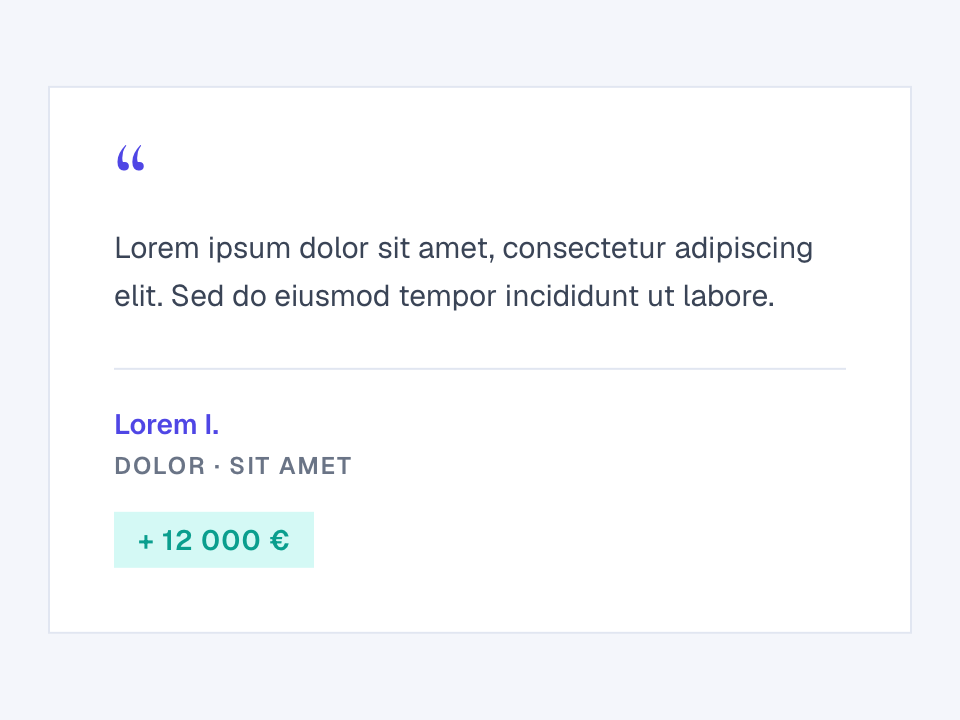
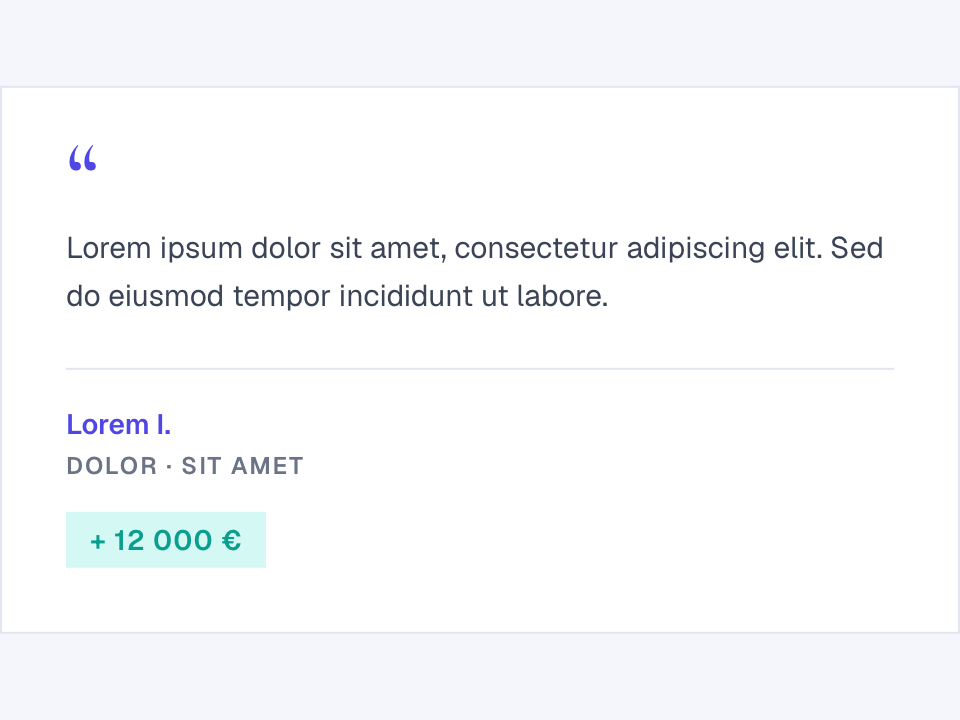
Section manager: thumbnails fill the panel's height, captures without margin, name centred on hover

diff --git a/src/app/(frontend)/apercu/[slug]/Apercu.tsx b/src/app/(frontend)/apercu/[slug]/Apercu.tsx
@@ -100,13 +100,16 @@ const STEPS = [
 ];
 
 /**
- * Width at which a component is rendered (CSS px) before it is fitted in its stage, when the
- * stage's inner width would make it too tall (scaled down further) or needlessly stretched.
- * Default: the stage's inner width, which keeps the cards largest (their image has a fixed height).
+ * Width at which a component is rendered (CSS px) before it is fitted in its stage (scaled down or
+ * up until it touches two facing edges). Default: the stage's width. A component that comes out
+ * taller than the stage is rendered wider here, so that it fills more of the stage once fitted.
  */
 const RENDER_WIDTH: Record<string, number> = {
   [PRICE_SINGLE_SLUG]: 760,
   [GALLERY_SLUG]: 800,
+  [PLAN_SLUG]: 640,
+  [TEXT_BOX_SLUG]: 600,
+  [FORM_SLUG]: 600,
 };
 
 /** Demo data for a card variant. */
@@ -214,14 +217,14 @@ function demo(slug: string): React.ReactNode {
 
 /**
  * The stage: a fixed box on the page background (standard or wide, same height) with the component
- * centred in it, rendered at its width then scaled down uniformly when it does not fit (never up).
+ * centred in it, rendered at its width then scaled uniformly to fit the stage (no padding).
  * `data-apercu` targets the capture; `data-ready` and `data-scale` are read by `pnpm previews:build`.
  */
 function Stage({slug, children}: {slug: string; children: React.ReactNode}) {
   const wide = WIDE_PREVIEWS.has(slug);
   const stageWidth = wide ? PREVIEW_STAGE.wideWidth : PREVIEW_STAGE.width;
-  const innerWidth = stageWidth - 2 * PREVIEW_STAGE.padding;
-  const innerHeight = PREVIEW_STAGE.height - 2 * PREVIEW_STAGE.padding;
+  const innerWidth = stageWidth;
+  const innerHeight = PREVIEW_STAGE.height;
   const width = RENDER_WIDTH[slug] ?? innerWidth;
   const content = useRef<HTMLElement>(null);
   const [scale, setScale] = useState(1);
@@ -230,7 +233,7 @@ function Stage({slug, children}: {slug: string; children: React.ReactNode}) {
   useLayoutEffect(() => {
     const el = content.current;
     if (!el) return;
-    const fit = () => setScale(Math.min(1, innerWidth / Math.max(el.offsetWidth, el.scrollWidth), innerHeight / Math.max(el.offsetHeight, el.scrollHeight)));
+    const fit = () => setScale(Math.min(innerWidth / Math.max(el.offsetWidth, el.scrollWidth), innerHeight / Math.max(el.offsetHeight, el.scrollHeight)));
     fit();
     const observer = new ResizeObserver(fit);
     observer.observe(el);
@@ -258,9 +261,10 @@ function Stage({slug, children}: {slug: string; children: React.ReactNode}) {
     };
   }, [innerHeight, innerWidth]);
 
+  // (the plan card's badge sits astride its top edge: it gets room, so that it is not cut)
   return (
     <VStack data-apercu data-ready={ready || undefined} data-scale={scale.toFixed(3)} style={{position: 'relative', width: stageWidth, height: PREVIEW_STAGE.height, overflow: 'hidden', background: 'var(--color-background-body)'}}>
-      <VStack ref={content} style={{position: 'absolute', insetInlineStart: '50%', insetBlockStart: '50%', width, transform: `translate(-50%, -50%) scale(${scale})`}}>
+      <VStack ref={content} style={{position: 'absolute', insetInlineStart: '50%', insetBlockStart: '50%', width, paddingBlockStart: slug === PLAN_SLUG ? 'var(--spacing-3)' : undefined, transform: `translate(-50%, -50%) scale(${scale})`}}>
         {children}
       </VStack>
     </VStack>

diff --git a/src/fields/sections/SectionManager.scss b/src/fields/sections/SectionManager.scss
@@ -354,10 +354,17 @@ $slide: 300ms;
 }
 
 // the block library: thumbnails in a line that scrolls sideways. A thumbnail is the block's image
-// alone, whole (contain), in a box of one height: standard (4:3) or wide (8:3, `--wide`)
+// alone, whole (contain), in a box as high as the panel: standard (4:3) or wide (8:3, `--wide`)
+.section-manager__content:has(> .block-library) {
+  display: flex;
+  flex-direction: column;
+}
+
 .block-library {
   display: flex;
+  flex: 1 1 0;
   gap: 12px;
+  min-height: 120px;
   margin: 0;
   padding: 0 0 8px;
   overflow-x: auto;
@@ -365,11 +372,12 @@ $slide: 300ms;
 }
 
 .block-library__item {
-  flex: 0 0 240px;
+  flex: 0 0 auto;
+  aspect-ratio: 4 / 3;
 }
 
 .block-library__item--wide {
-  flex-basis: 480px;
+  aspect-ratio: 8 / 3;
 }
 
 .block-library__block {
@@ -378,14 +386,13 @@ $slide: 300ms;
   display: block;
   overflow: hidden;
   width: 100%;
-  height: 180px;
+  height: 100%;
   border-radius: 4px;
   background: var(--theme-elevation-50) center / contain no-repeat;
   // the frame is a shadow drawn over the picture: the picture keeps the box's exact size
   box-shadow: inset 0 0 0 1px var(--theme-elevation-150);
   color: var(--theme-elevation-0);
   font: inherit;
-  text-align: left;
   cursor: grab;
 
   &:hover,
@@ -400,15 +407,22 @@ $slide: 300ms;
   }
 }
 
-// the name and the widths: a band over the bottom of the picture, on hover and on keyboard focus
+// the name and the widths: a label in the middle of the picture, on hover and on keyboard focus
 .block-library__caption {
   position: absolute;
-  inset: auto 0 0;
+  top: 50%;
+  left: 50%;
   display: flex;
   flex-direction: column;
-  padding: 6px 10px;
+  align-items: center;
+  box-sizing: border-box;
+  max-width: calc(100% - 16px);
+  padding: 8px 12px;
+  border-radius: 4px;
   background: color-mix(in srgb, var(--theme-elevation-1000) 88%, transparent);
+  text-align: center;
   opacity: 0;
+  transform: translate(-50%, -50%);
   transition: opacity 120ms ease;
   pointer-events: none;
 
@@ -419,6 +433,7 @@ $slide: 300ms;
 }
 
 .block-library__label {
+  max-width: 100%;
   overflow: hidden;
   font-size: 14px;
   font-weight: 600;

diff --git a/src/fields/sections/BlockLibrary.tsx b/src/fields/sections/BlockLibrary.tsx
@@ -2,9 +2,9 @@
 
 /**
  * BlockLibrary — the content blocks as a line of thumbnails that scrolls sideways: each one is the
- * image the host gave the block, shown whole (contain) in a box of fixed height, standard or wide
+ * image the host gave the block, shown whole (contain) in a box as high as the panel, standard or wide
  * (`wide`: the host declared a landscape image). The block's name and the column widths it accepts
- * show over the picture on hover and on keyboard focus, and are its accessible name. A thumbnail
+ * show in the middle of the picture on hover and on keyboard focus, and are its accessible name. A thumbnail
  * is dragged onto a column of the preview (`onDrag` tells the dialog which block is in the air) or
  * clicked (`onPick`). `fits`: blocks that do not fit are shown dimmed and cannot be picked.
  */
@@ -56,7 +56,7 @@ export function BlockLibrary({blocks, fits, onPick, onDrag}: Props) {
                 onDrag?.(b.slug);
               }}
               onDragEnd={() => onDrag?.(null)}>
-              {/* the name and the widths, over the picture on hover and focus (the aria-label speaks them) */}
+              {/* the name and the widths, in the middle of the picture on hover and focus (the aria-label speaks them) */}
               <span className="block-library__caption" aria-hidden="true">
                 <span className="block-library__label">{b.label}</span>
                 <span className="block-library__widths">{widths}</span>

diff --git a/src/fields/blocks/previews.ts b/src/fields/blocks/previews.ts
@@ -24,9 +24,10 @@ export const PREVIEW_SLUGS: string[] = [EMPTY_SLUG, SECTION_HEADING_SLUG, TEXT_B
 
 /**
  * Stage of a picker preview, in CSS px: every capture is a standard stage or a wide one, both the
- * same height, shot at `scale` (deviceScaleFactor). The component sits centred in it, whole.
+ * same height, shot at `scale` (deviceScaleFactor). The component sits centred in it, whole, as
+ * large as the stage allows (no padding).
  */
-export const PREVIEW_STAGE = {width: 480, wideWidth: 960, height: 360, padding: 24, scale: 2} as const;
+export const PREVIEW_STAGE = {width: 480, wideWidth: 960, height: 360, scale: 2} as const;
 
 /**
  * Blocks whose preview is landscape: a wide stage (twice the standard width), and a wide

diff --git a/docs/section-builder.md b/docs/section-builder.md
@@ -138,7 +138,7 @@ The block picker only offers blocks whose width range contains the column's (`fi
 
 Each block has a thumbnail in the picker (`imageURL`). They are screenshots of `/apercu/<slug>` (blue silo, light mode, lorem ipsum demo data) made by `pnpm previews:build` while `pnpm dev` is running (`PREVIEW_ONLY=slug1,slug2` to redo a few).
 
-Two formats only, same height (`PREVIEW_STAGE` in `src/fields/blocks/previews.ts`): a standard stage of 480 × 360 CSS px or a wide one of 960 × 360, captured at 2x (PNG 960 × 720 or 1920 × 720). The component is centred on the page background with a 24 px margin, rendered at the stage's inner width (or a per-slug `RENDER_WIDTH` in `Apercu.tsx`) and scaled down uniformly when it does not fit, never up; the script prints the scale of each. Keep demo contents short (three features, two FAQ items…) so that the scale stays near 1. `WIDE_PREVIEWS` (same file) lists the landscape blocks: it picks the stage, and `src/sections.config.ts` turns it into each block's `previewWide`, which gives it a wide thumbnail in the section manager. Payload's own blocks drawer shows the images whole in 4:3 cells (`custom.scss`).
+Two formats only, same height (`PREVIEW_STAGE` in `src/fields/blocks/previews.ts`): a standard stage of 480 × 360 CSS px or a wide one of 960 × 360, captured at 2x (PNG 960 × 720 or 1920 × 720). The component is centred on the page background with no margin, rendered at the stage's width (or a per-slug `RENDER_WIDTH` in `Apercu.tsx`) and scaled uniformly until it touches two facing edges of the stage; the script prints the scale of each. Keep demo contents short (three features, two FAQ items…) so that the scale stays near 1. `WIDE_PREVIEWS` (same file) lists the landscape blocks: it picks the stage, and `src/sections.config.ts` turns it into each block's `previewWide`, which gives it a wide thumbnail in the section manager. Payload's own blocks drawer shows the images whole in 4:3 cells (`custom.scss`).
 
 ## Title tags
 

diff --git a/docs/section-manager.md b/docs/section-manager.md
@@ -85,9 +85,9 @@ still publishes: no drafts).
    fourth « Contenu ».
    - **Composants**: the blocks as thumbnails (the picker images, `public/apercus`) in a line that
      scrolls sideways. Each thumbnail is the picture alone, shown whole (`background-size: contain`)
-     in a box 180 px high: 240 px wide, or 480 px for a block declared `previewWide` (the core gets
+     in a box as high as the panel (it follows the handle): 4:3, or 8:3 for a block declared `previewWide` (the core gets
      the list as the `wideImages` client prop, like `minSpans`). The block's name and accepted widths
-     show in a band over the picture on hover and keyboard focus (and are its `aria-label`). A thumbnail is dragged onto a column of the preview (native drag and drop):
+     show in a label in the middle of the picture on hover and keyboard focus (and are its `aria-label`). A thumbnail is dragged onto a column of the preview (native drag and drop):
      while it is in the air the admin draws one zone per column over the frame, from the boxes the
      frame reported; a column too narrow or too wide for the block is not a drop target, so the
      browser shows the « not allowed » cursor, **only during the drag**. Dropping on a filled
